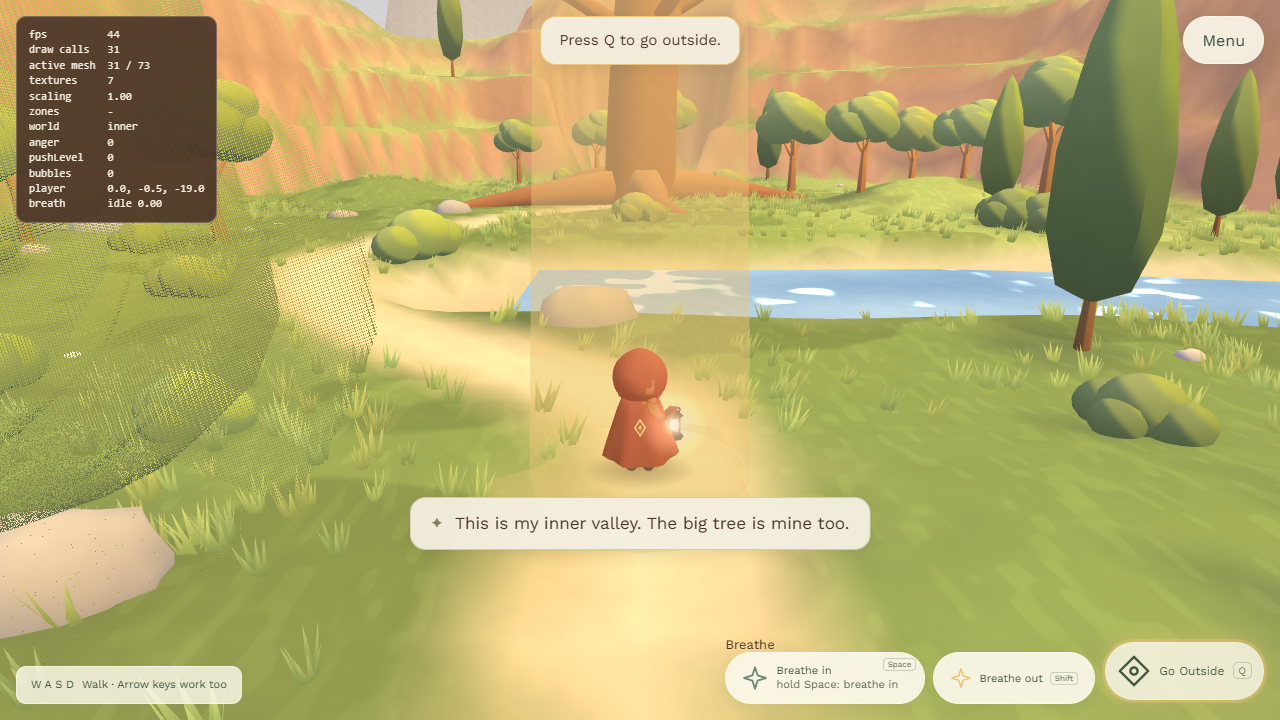
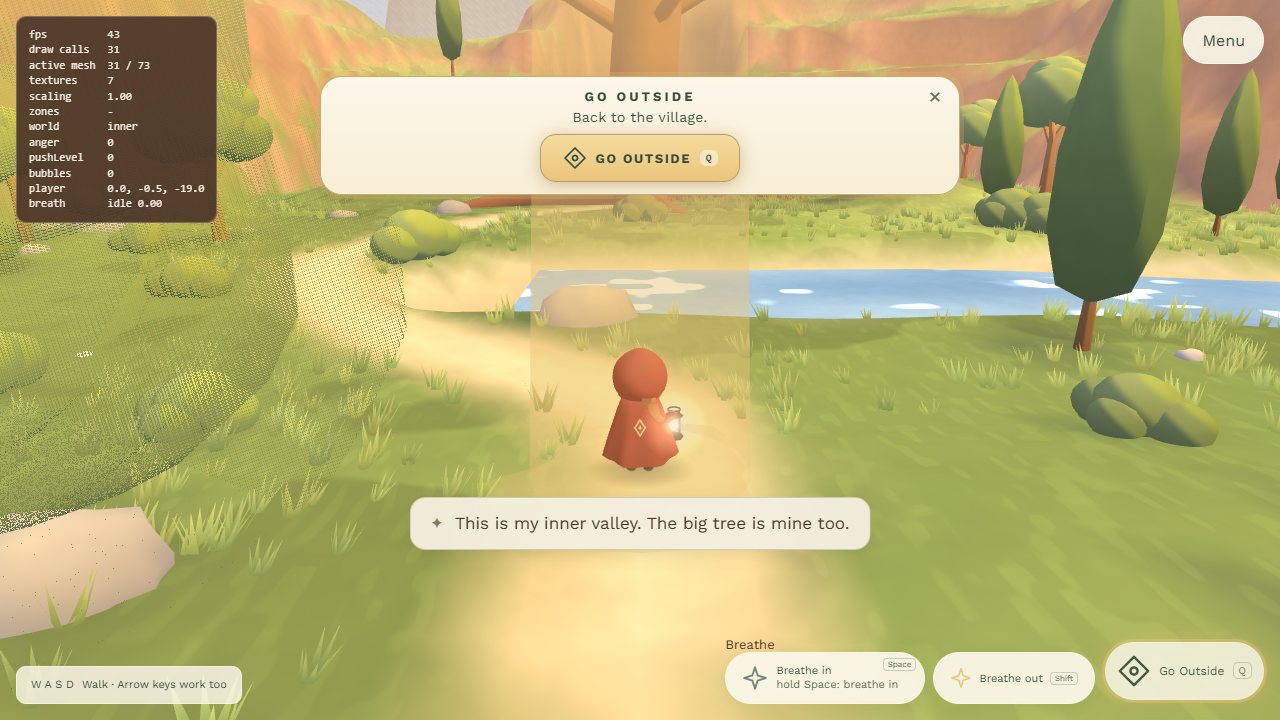
ui: tutorial action cards at every key story beat

diff --git a/src/game/Story.ts b/src/game/Story.ts
@@ -12,6 +12,7 @@ import { TOWN } from '../outer/townLayout';
 import { EndCard } from '../ui/EndCard';
 import { Beacon } from './Beacon';
 import { NextStepHint } from '../ui/NextStepHint';
+import { ActionCard, type ActionCardView } from '../ui/ActionCard';
 import { SpeechBubble } from '../ui/SpeechBubble';
 import type { Anger } from './Anger';
 import type { Lantern } from './Lantern';
@@ -29,6 +30,7 @@ export interface StoryDeps {
   outerLantern: Lantern;
   innerLantern: Lantern;
   touch: boolean;
+  actions: { look: () => void; press: () => void };
 }
 
 const dist2 = (ax: number, az: number, bx: number, bz: number): number => Math.hypot(ax - bx, az - bz);
@@ -52,7 +54,8 @@ export class Story {
   private readonly beacon: Beacon;
   private readonly innerBeacon: Beacon;
   private readonly nextStep: NextStepHint;
-  private hintT = 0;
+  private readonly card: ActionCard;
+  private readonly cardDone = new Set<string>();
   /** Idle reminder: current step signature and seconds spent in it. */
   private stepSig = '';
   private stepIdleT = 0;
@@ -88,6 +91,8 @@ export class Story {
     this.innerBeacon = new Beacon(deps.inner.scene, 0, 0, 0);
     this.innerBeacon.hide();
     this.nextStep = new NextStepHint(deps.ui);
+    this.card = new ActionCard(deps.ui, deps.dialogue.line('cardClose'), deps.actions);
+    this.card.onDismiss = (id) => this.cardDone.add(id);
     // Before the bump both trees are healthy and the root is not burned (reveal rule).
     deps.outer.setOldTreeBranchHealth(1);
     deps.inner.setBranchHealth(1);
@@ -128,8 +133,6 @@ export class Story {
     this.begun = true;
     if (this.state.restored) return;
     this.say('taskLantern');
-    this.hint('hintMove');
-    this.hint('hintBreathe');
   }
 
   lastLine(): string {
@@ -234,31 +237,19 @@ export class Story {
       this.lookWithinOpen = true;
       this.state.reach(1);
       this.cancelOpeningHints();
-      this.say(this.d.touch ? 'hintLookWithinTouch' : 'hintLookWithin', true);
-      this.hintT = 0;
     }
 
-    // Gentle repeat of the current hint until the step is done.
-    const needBreath = this.needsBreathHelp();
-    const needLook = this.lookWithinOpen && !this.innerVisited && !f.bumped && this.state.beat <= 1;
+    // The action card now guides the step; this bottom line only repeats while the card is dismissed.
     const nearAlley = dist2(outerPosition.x, outerPosition.z, TOWN.alleyStory.basket.x, TOWN.alleyStory.basket.z) < TUNING.story.guidanceNearRadius;
     // Not while the player is already busy with the alley (that is the current step).
     const needAngry = f.bumped && !this.angryInnerVisited && !f.helped && !nearAlley;
     if (shown === 'outer' && !busy && needAngry) {
       this.angryT += dt;
-      if (this.angryT >= TUNING.story.hintRepeatS * 0.5 && !d.dialogue.busy) {
+      if (this.angryT >= TUNING.story.hintRepeatS * 0.5 && !d.dialogue.busy && this.card.id === '') {
         this.angryT = 0;
         this.say('angryLookWithin');
       }
     } else this.angryT = 0;
-    if (shown === 'outer' && !busy && !breathing && (needBreath || needLook)) {
-      this.hintT += dt;
-      if (this.hintT >= TUNING.story.hintRepeatS && !d.dialogue.busy) {
-        this.hintT = 0;
-        this.hint(needBreath ? 'hintBreathe' : 'hintLookWithin');
-      }
-    } else this.hintT = 0;
-
     // Beat 3: the bump, once the player crosses the line on Main Street.
     if (shown === 'outer' && !busy && this.lookWithinOpen && this.innerVisited && this.state.beat >= 2 && !f.bumped && d.outer.bump.bumpTriggerReached(d.outer.playerPosition())) {
       this.startBump();
@@ -365,8 +356,39 @@ export class Story {
       uiKey = `${key}${left}`;
       sig = uiKey;
     } else if (key === 'stepImp') sig = `${key}${this.impBreaths}`;
-    this.updateReminder(dt, sig, key, busy);
+    this.updateCard(key, busy);
+    this.updateReminder(dt, sig, key, busy || this.card.id !== '');
     this.nextStep.update(uiKey, line, label ? d.dialogue.line(label) : '', d.dialogue.line('targetTurn'), busy ? null : target, world.scene, world.camera, badge);
+  }
+
+  private cardFor(key: string): ActionCardView | null {
+    const dl = this.d.dialogue;
+    const f = this.state.flags;
+    let id = '';
+    let kind: ActionCardView['kind'] = 'ok';
+    let icon: ActionCardView['icon'] = 'look-within';
+    let keyCap = '';
+    if (key === 'stepSquare') {
+      if (this.begun && !this.movedSinceBegin) id = 'cardMove';
+      else if (this.needsBreathHelp()) { id = 'cardBreathe'; kind = 'hold'; icon = 'breathe'; keyCap = 'Space'; }
+    } else if (key === 'stepFirstInside') { id = 'cardLookFirst'; kind = 'look'; keyCap = 'Q'; }
+    else if (key === 'stepAngry') { id = 'cardLookImp'; kind = 'look'; keyCap = 'Q'; }
+    else if (key === 'stepInside') { id = 'cardLookInside'; kind = 'look'; keyCap = 'Q'; }
+    else if (key === 'stepReturn' || key === 'stepReturnAlley' || key === 'stepReturnTree') { id = 'cardGoOut'; kind = 'look'; keyCap = 'Q'; }
+    else if (key === 'stepAlley') id = 'cardAlley';
+    else if (key === 'stepApples') { id = 'cardApples'; kind = 'press'; icon = 'collect'; keyCap = 'E'; }
+    else if (key === 'stepImp' || key === 'stepImpApproach') { id = f.helped ? 'cardImp' : ''; kind = 'hold'; icon = 'breathe'; keyCap = 'Space'; }
+    else if (key === 'stepTree') { id = 'cardTree'; kind = 'press'; icon = 'push'; keyCap = 'E'; }
+    if (!id || this.cardDone.has(id)) return null;
+    return { id, kind, icon, key: this.d.touch ? '' : keyCap, title: dl.line(`${id}Title`), text: dl.line(`${id}Text`), button: dl.line(`${id}Button`) };
+  }
+
+  /** One tutorial card per step. It closes when the step is done or on dismiss, and never comes back. */
+  private updateCard(key: string, busy: boolean): void {
+    const want = this.cardFor(key);
+    if (this.card.id && this.card.id !== want?.id) this.cardDone.add(this.card.id);
+    if (!want || busy || this.d.dialogue.line('cardClose') === '') this.card.hide();
+    else this.card.show(want);
   }
 
   /** Calm reminder when the player stays in one step for a while. Stale reminders are dropped on step change. */
@@ -485,7 +507,6 @@ export class Story {
     d.inner.setBranchHealth(0);
     this.sound.impGrowl();
     this.say('bumpAfter', true);
-    this.say('angryLookWithin');
     this.angryT = 0;
   }
 
@@ -641,11 +662,6 @@ export class Story {
   private say(key: string, interrupt = false): void {
     this.lastLineKey = key;
     void this.d.dialogue.say(key, { interrupt });
-  }
-
-  /** A control hint; touch devices get the `<key>Touch` variant. */
-  private hint(key: string): void {
-    this.say(this.d.touch ? `${key}Touch` : key);
   }
 
   private cancelOpeningHints(): void {

diff --git a/src/ui/ActionCard.ts b/src/ui/ActionCard.ts
@@ -1,0 +1,104 @@
+import { InputManager } from '../core/InputManager';
+import { createControlIcon } from './ControlIcons';
+
+export type ActionCardKind = 'look' | 'press' | 'hold' | 'ok';
+
+export interface ActionCardView {
+  id: string;
+  kind: ActionCardKind;
+  title: string;
+  text: string;
+  button: string;
+  key: string;
+  icon: 'look-within' | 'push' | 'collect' | 'breathe';
+}
+
+/** Tutorial card (same look as the thought card). One clear action button; never blocks movement. */
+export class ActionCard {
+  private readonly el = document.createElement('div');
+  private readonly title = document.createElement('div');
+  private readonly text = document.createElement('div');
+  private readonly row = document.createElement('div');
+  private readonly close = document.createElement('button');
+  private currentId = '';
+  private holding = false;
+  onDismiss: (id: string) => void = () => {};
+
+  constructor(parent: HTMLElement, closeLabel: string, private readonly act: { look: () => void; press: () => void }) {
+    this.el.className = 'thought-plaque action-card';
+    this.el.setAttribute('role', 'group');
+    this.title.className = 'thought-plaque-title';
+    this.text.className = 'thought-plaque-prompt';
+    this.row.className = 'action-card-row';
+    this.close.type = 'button';
+    this.close.className = 'action-card-close';
+    this.close.textContent = '×';
+    this.close.setAttribute('aria-label', closeLabel);
+    this.close.addEventListener('click', () => this.onDismiss(this.currentId));
+    this.el.append(this.close, this.title, this.text, this.row);
+    parent.appendChild(this.el);
+  }
+
+  get id(): string { return this.currentId; }
+
+  show(v: ActionCardView): void {
+    if (this.currentId === v.id) return;
+    this.releaseHold();
+    this.currentId = v.id;
+    this.title.textContent = v.title;
+    this.text.textContent = v.text;
+    this.el.setAttribute('aria-label', v.title);
+    this.row.textContent = '';
+    const b = document.createElement('button');
+    b.type = 'button';
+    b.className = 'action-card-button';
+    if (v.kind !== 'ok') b.append(createControlIcon(v.icon));
+    const label = document.createElement('span');
+    label.textContent = v.button;
+    b.append(label);
+    if (v.key) {
+      const k = document.createElement('kbd');
+      k.textContent = v.key;
+      b.append(k);
+    }
+    b.setAttribute('aria-label', v.key ? `${v.button} (${v.key})` : v.button);
+    if (v.kind === 'hold') {
+      b.addEventListener('pointerdown', (e) => {
+        e.preventDefault();
+        b.setPointerCapture(e.pointerId);
+        this.holding = true;
+        b.classList.add('held');
+        InputManager.setUIKey('Space', true);
+      });
+      const up = (): void => { this.releaseHold(); b.classList.remove('held'); };
+      b.addEventListener('pointerup', up);
+      b.addEventListener('pointercancel', up);
+      b.addEventListener('lostpointercapture', up);
+    } else {
+      b.addEventListener('click', () => {
+        if (v.kind === 'look') this.act.look();
+        else if (v.kind === 'press') this.act.press();
+        else this.onDismiss(v.id);
+      });
+    }
+    this.row.append(b);
+    this.el.classList.remove('pop');
+    void this.el.offsetWidth;
+    this.el.classList.add('open', 'pop');
+    document.body.classList.add('action-card-open');
+  }
+
+  hide(): void {
+    if (!this.currentId) return;
+    this.releaseHold();
+    this.currentId = '';
+    this.el.classList.remove('open', 'pop');
+    document.body.classList.remove('action-card-open');
+  }
+
+  private releaseHold(): void {
+    if (!this.holding) return;
+    this.holding = false;
+    InputManager.setUIKey('Space', false);
+  }
+}

diff --git a/src/ui/thought-card.css b/src/ui/thought-card.css
@@ -157,3 +157,29 @@ body.touch .breath-button.thought-choice-active .control-icon { width: 24px; hei
   body.touch .hand-button.thought-choice-active.pressed { transform: none; }
   .breathe-action::before, body.touch .breath-button.thought-choice-active::before { transform: none; opacity: calc(var(--breath-level, 0) * .85); }
 }
+
+/* Tutorial action card: same plaque, one big action button. Never blocks movement (only the button takes taps). */
+.thought-plaque.action-card { height: auto; padding-bottom: var(--tc-pad); }
+.thought-plaque.action-card.open { pointer-events: none; }
+.action-card .thought-plaque-prompt { margin: 4px 22px 8px; font-size: 14px; color: var(--ui-deep); }
+.action-card-row { display: flex; justify-content: center; }
+.action-card-button, .action-card-close { pointer-events: auto; cursor: pointer; font: inherit; }
+.action-card-button {
+  display: flex; align-items: center; justify-content: center; gap: 9px; min-height: 48px; min-width: 200px; padding: 8px 18px;
+  border: 1px solid color-mix(in srgb, var(--gold) 70%, var(--ui-deep)); border-radius: 16px; color: var(--ui-deep);
+  background: linear-gradient(180deg, #f6dc9f, var(--gold)); font-weight: 700; letter-spacing: .12em; text-transform: uppercase; font-size: 13px;
+  box-shadow: 0 4px 14px color-mix(in srgb, var(--umber) 18%, transparent), 0 0 18px color-mix(in srgb, var(--gold) 45%, transparent);
+}
+.action-card-button:hover { filter: brightness(1.04); }
+.action-card-button.held { transform: scale(1.03); box-shadow: 0 0 0 3px color-mix(in srgb, var(--lantern-white) 80%, transparent), 0 0 30px color-mix(in srgb, var(--gold) 80%, transparent); }
+.action-card-button .control-icon { width: 24px; height: 24px; flex: 0 0 auto; }
+.action-card-button kbd { font-size: 10px; letter-spacing: 0; padding: 2px 6px; border-radius: 6px; background: color-mix(in srgb, var(--ui-paper) 55%, transparent); }
+.action-card-close { position: absolute; top: 4px; right: 8px; width: 32px; height: 32px; border: 0; background: none; color: var(--ui-muted); font-size: 22px; line-height: 1; }
+.action-card-button:focus-visible, .action-card-close:focus-visible { outline: 3px solid var(--ui-deep); outline-offset: 2px; }
+body.action-card-open .next-step-hint { opacity: 0 !important; pointer-events: none; }
+body.action-card-open .imp-breath-progress { top: calc(var(--tc-top) + 160px); }
+body.thought-choice-open .action-card { opacity: 0; visibility: hidden; }
+@media (max-height: 520px) {
+  .action-card .thought-plaque-prompt { display: block; margin: 2px 22px 4px; font-size: 12px; }
+  .action-card-button { min-height: 40px; padding: 4px 14px; }
+}

diff --git a/src/game/Game.ts b/src/game/Game.ts
@@ -142,7 +142,7 @@ export class Game {
         if (choice === 'begin') StoryState.clear();
         InputManager.resetAll();
         window.dispatchEvent(new Event('blur'));
-        this.story = new Story({ engine: this.engine, ui, outer: this.outer, inner: this.inner, anger: this.anger, dialogue: this.dialogue, outerLantern, innerLantern, touch });
+        this.story = new Story({ engine: this.engine, ui, outer: this.outer, inner: this.inner, anger: this.anger, dialogue: this.dialogue, outerLantern, innerLantern, touch, actions: { look: () => this.toggle(), press: () => this.press() } });
         this.story.endCard.setLabels(dl.line('endStatus'), dl.line('endContinue'));
         this.story.endCard.onDismiss = () => {
           InputManager.resetAll();

diff --git a/docs/DECISIONS.md b/docs/DECISIONS.md
@@ -123,3 +123,5 @@ Keep all game inputs, story text, save behavior and the 2-second breath timing. 
 - After the bump, guidance is "look within" (`stepAngry`). Alley apples (E) are locked until the first inner visit after the bump (`sawImp`) or `helped` (old saves). Then `stepAlley` as before. No new save flag.
 - DRAFT texts: `stepAngry` ("Press Q to look within. See what is burning in you."), `impFirst` ("There it is. This fire lives in me.").
 - Walking while breathing: `TUNING.breath.walkFactor` = 0.8 (was fixed 0.6) in both worlds.
+
+**L39. Tutorial action cards (2026-10-17).** Alexander: the game must not be guesswork. Each key action step shows one pop-up card (same look as the thought card) with a short title, one sentence, and one clickable action button (Q / E / hold Space). Cards: walk, first breath, look within (first, after the bump, before the imp), go outside, follow the gold light, collect apples, breathe with the imp, place the lantern. Each card shows once, closes when the step is done or on x, never blocks movement. The card is the main guide: the top hint hides while a card is open, and the bottom lines `hintMove`, `hintBreathe`, `hintLookWithin`, `angryLookWithin` are no longer spoken. DRAFT texts: all `card*` keys in en.json. No dependency added.

diff --git a/docs/HANDOVER.md b/docs/HANDOVER.md
@@ -94,3 +94,8 @@ Game title: **Transform Karma**. Current PoC (proof of concept = small complete 
 
 ## Update: first inner visit after the bump
 Bump -> `stepAngry` (Q) -> imp recognised (`impFirst`, sets `sawImp`) -> `stepReturnAlley` -> alley. Apples locked until `sawImp`. Walk speed while breathing: `TUNING.breath.walkFactor`. Scenario `scenarios.mjs` updated (lantern-alt, guidance).
+
+## Update: tutorial action cards (2026-10-17)
+- `src/ui/ActionCard.ts` + `.action-card` in `thought-card.css`. Story picks a card per step key (`Story.cardFor`), shows it once (`cardDone`), hides on step change/dismiss/transition. Texts: `card*` in en.json (drafts, see L39).
+- Top hint hidden while a card is open; opening bottom hint lines and `angryLookWithin` removed. Idle reminders wait while a card is open.
+- Not carded: push vs breathe on waves (existing thought card), explore, square return.
